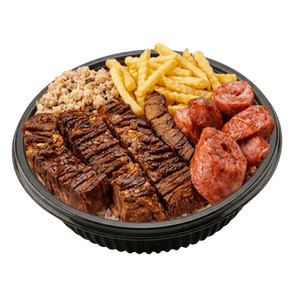
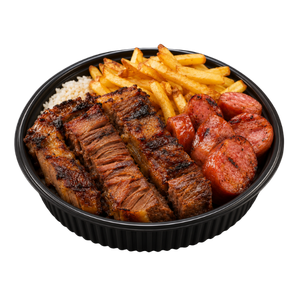
feat: update marmitaria dishes with real descriptions and new photos
Remove Costela Assada, Frango Assado and Canelone from the marmitaria
showcase, correct 12 dish names/descriptions to match how they're
actually prepared, refresh the Churrasco/Virado à Paulista/Feijoada
photos, and add Talharim 4 Queijos, Hambúrguer Pizzaiolo, Mignon Grill
and Bife à Rolê from the new Delpak photo pack.

diff --git a/src/Marmitaria.jsx b/src/Marmitaria.jsx
@@ -8,32 +8,33 @@ const whatsappUrl = "https://wa.me/551931991971";
 // options vary. Images are no-background product cutouts from the kitchen's
 // photo set, shown here as a visual menu, not a priced order form.
 const dishes = [
-  { slug: "costela-assada", title: "Costela Assada", desc: "Assada lentamente até soltar do osso." },
-  { slug: "frango-assado", title: "Frango Assado", desc: "Dourado no espeto, suculento por dentro." },
-  { slug: "cupim", title: "Cupim", desc: "Carne nobre, macia e com sabor de churrasco." },
-  { slug: "pernil-ao-molho", title: "Pernil ao Molho", desc: "Pernil suíno fatiado, no molho da casa." },
-  { slug: "sobrecoxa", title: "Sobrecoxa", desc: "Frango suculento, temperado e bem dourado." },
+  { slug: "cupim", title: "Cupim", desc: "Perdigão na brasa, assado lentamente e regado ao molho madeira." },
+  { slug: "pernil-ao-molho", title: "Pernil ao Molho", desc: "Cubos de pernil fritos na cebola e alho, refogados em molho glacê." },
+  { slug: "sobrecoxa", title: "Sobrecoxa", desc: "Filé de sobrecoxa, sem osso, assado na brasa." },
   { slug: "lombo", title: "Lombo", desc: "Lombo suíno fatiado e temperado." },
-  { slug: "pancetta", title: "Pancetta", desc: "Fatias crocantes de barriga de porco." },
-  { slug: "bife-a-vilalva", title: "Bife à Vilalvá", desc: "Empanado, coberto de queijo, com fritas e salada." },
+  { slug: "pancetta", title: "Pancettinha", desc: "Novidade Perdigão: panceta com toque de lemon pepper e molho especial da casa, chapeada até ficar crocante." },
+  { slug: "bife-a-vilalva", title: "Frango à Vilalvá", desc: "Filé de frango empanado, com palmito, ervilha, bechamel, queijo, presunto e batata palha." },
   { slug: "frango-a-milanesa", title: "Frango à Milanesa", desc: "Empanado e crocante por fora, macio por dentro." },
   { slug: "frango-grelhado", title: "Frango Grelhado", desc: "Peito de frango grelhado no ponto certo." },
   { slug: "medalhao-de-frango", title: "Medalhão de Frango com Bacon", desc: "Enrolado no bacon, com legumes e arroz." },
-  { slug: "contra-file-a-moda", title: "Contra-filé à Moda da Casa", desc: "Grelhado, com um toque cremoso por cima." },
+  { slug: "contra-file-a-moda", title: "Entrecot à Moda da Casa", desc: "Contrafilé grelhado, com catupiry e alho frito." },
   { slug: "parmegiana", title: "Parmegiana", desc: "Empanada, coberta de molho e queijo gratinado." },
-  { slug: "bife-grelhado", title: "Bife Grelhado", desc: "Corte suculento, grelhado na hora." },
-  { slug: "steak", title: "Steak", desc: "Corte generoso, grelhado ao ponto." },
-  { slug: "carne-de-panela", title: "Carne de Panela", desc: "Cozida lentamente até desmanchar." },
-  { slug: "churrasco", title: "Churrasco", desc: "Carnes grelhadas no estilo boteco." },
-  { slug: "vaca-atolada", title: "Vaca Atolada", desc: "Carne e mandioca cozidas no caldo encorpado." },
-  { slug: "virado-a-paulista", title: "Virado à Paulista", desc: "Tutu, couve, linguiça e torresmo no prato." },
+  { slug: "bife-grelhado", title: "Bife Grelhado", desc: "Delicioso patinho grelhado." },
+  { slug: "steak", title: "Steak Perdigão", desc: "Recheado de presunto de peru e queijo prato." },
+  { slug: "carne-de-panela", title: "Carne de Panela", desc: "Toque de cebola, feito com patinho em cubos." },
+  { slug: "churrasco", title: "Churrasco", desc: "Mix variável, geralmente costela e linguiça toscana." },
+  { slug: "vaca-atolada", title: "Vaca Atolada", desc: "Costela ripa cozida na própria gordura, regada à mandioca." },
+  { slug: "virado-a-paulista", title: "Virado à Paulista", desc: "Lombo suíno, tutu, arroz, farofa, couve refogada, vinagrete, ovo frito e banana milanesa." },
   { slug: "almondegas", title: "Almôndegas", desc: "Ao molho, macias e bem temperadas." },
-  { slug: "peixe-grelhado", title: "Peixe Grelhado", desc: "Filé grelhado no ponto, leve e saboroso." },
-  { slug: "omelete", title: "Omelete", desc: "Fofo por dentro, dourado por fora." },
-  { slug: "panqueca", title: "Panqueca", desc: "Recheada e gratinada no molho." },
-  { slug: "nhoque-ao-molho-branco", title: "Nhoque ao Molho Branco", desc: "Cremoso, com tirinhas de carne grelhada." },
-  { slug: "canelone-ao-molho", title: "Canelone ao Molho", desc: "Recheado, gratinado no molho vermelho." },
-  { slug: "feijoada", title: "Feijoada", desc: "Feijão preto, couve, farofa e carnes." },
+  { slug: "peixe-grelhado", title: "Peixe", desc: "Feito com merluza ou merluzão, cortes argentinos." },
+  { slug: "omelete", title: "Omelete", desc: "3 ovos com recheio de queijo." },
+  { slug: "panqueca", title: "Panqueca", desc: "Carne ou frango, com molho ao sugo." },
+  { slug: "nhoque-ao-molho-branco", title: "Nhoque Ripiene", desc: "Prato nobre de nhoque feito artesanalmente, recheio de mussarela e orégano, acompanha iscas de mignon ou contrafilé." },
+  { slug: "feijoada", title: "Feijoada", desc: "Clássica das quartas e sábados, feita com jerked beef, calabresa, bacon, pernil e lombo." },
+  { slug: "talharim-4-queijos", title: "Talharim 4 Queijos", desc: "Talharim com molho branco, mussarela, parmesão, gorgonzola e catupiry." },
+  { slug: "hamburguer-pizzaiolo", title: "Hambúrguer Pizzaiolo", desc: "Molho de tomate e queijo." },
+  { slug: "mignon-grill", title: "Mignon Grill", desc: "Escalope de mignon grelhado, com brócolis no azeite." },
+  { slug: "bife-role", title: "Bife à Rolê", desc: "Bife recheado de cenoura em palitos e bacon." },
 ];
 
 const drinks = [
